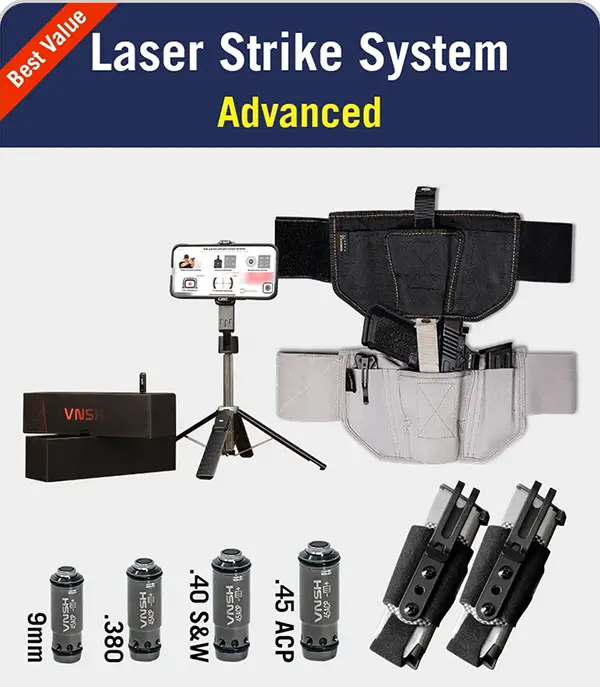
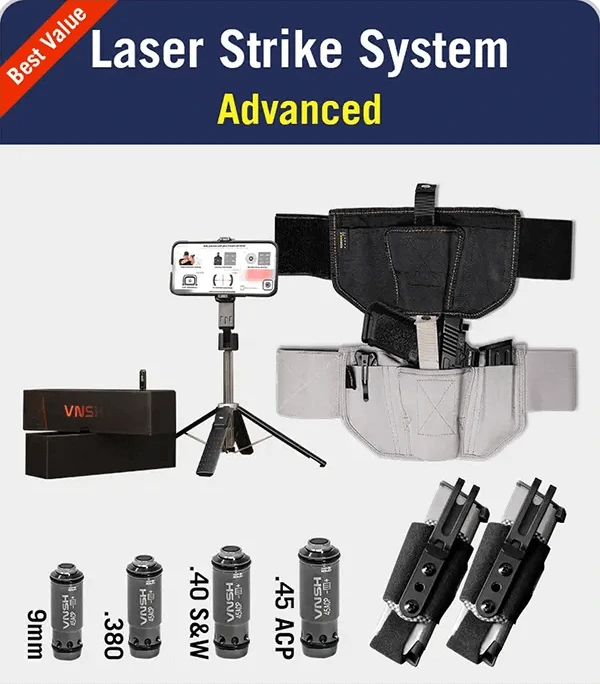
fix package selection

diff --git a/src/components/PackageSelection/PackageSelection.tsx b/src/components/PackageSelection/PackageSelection.tsx
@@ -84,11 +84,11 @@ const PackageSelection: React.FC = () => {
               src="/contentimages/AdvancedMobileU2.webp"
               alt="Ultimate Package"
               fill
-              className="object-contain -mt-[15px] md:-mt-[15px]"
+              className="object-contain object-top"
               priority
             />
           </div>
-          <div className="p-4 flex-grow flex flex-col bg-[#ededed]">
+          <div className="pt-0 px-4 pb-4 flex-grow flex flex-col bg-[#ededed]">
             <div className="flex justify-center items-center gap-2">
               <span className="text-5xl font-bold text-black">$199</span>
               <span className="text-[#ff0000] text-lg font-bold">+ Free S&H</span>
@@ -100,7 +100,7 @@ const PackageSelection: React.FC = () => {
               <ul className="list-none p-0 m-0">
                 <li className="flex items-start bg-black text-white px-3 py-0.5 rounded mb-2">
                   <span className="text-white mr-2 text-base">+</span>
-                  <span className="text-base">
+                  <span className="text-[15px]">
                     All Calibers <span className="text-sm">(9mm, .380, .40 & .45)</span>
                   </span>
                 </li>
@@ -161,7 +161,7 @@ const PackageSelection: React.FC = () => {
               src="/contentimages/EnhancedMobileU2.webp"
               alt="Enhanced Package"
               fill
-              className="object-contain -mt-4 md:-mt-4"
+              className="object-contain object-top"
               priority
             />
           </div>
